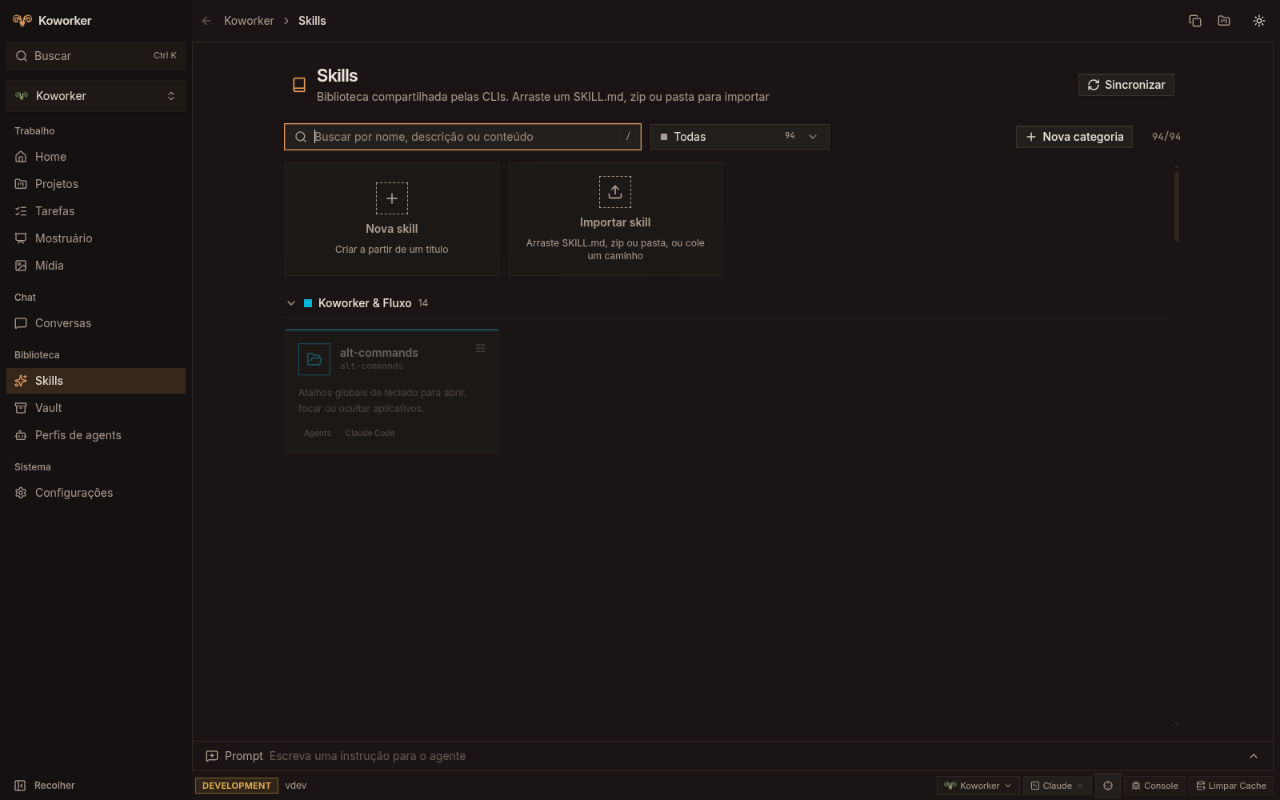
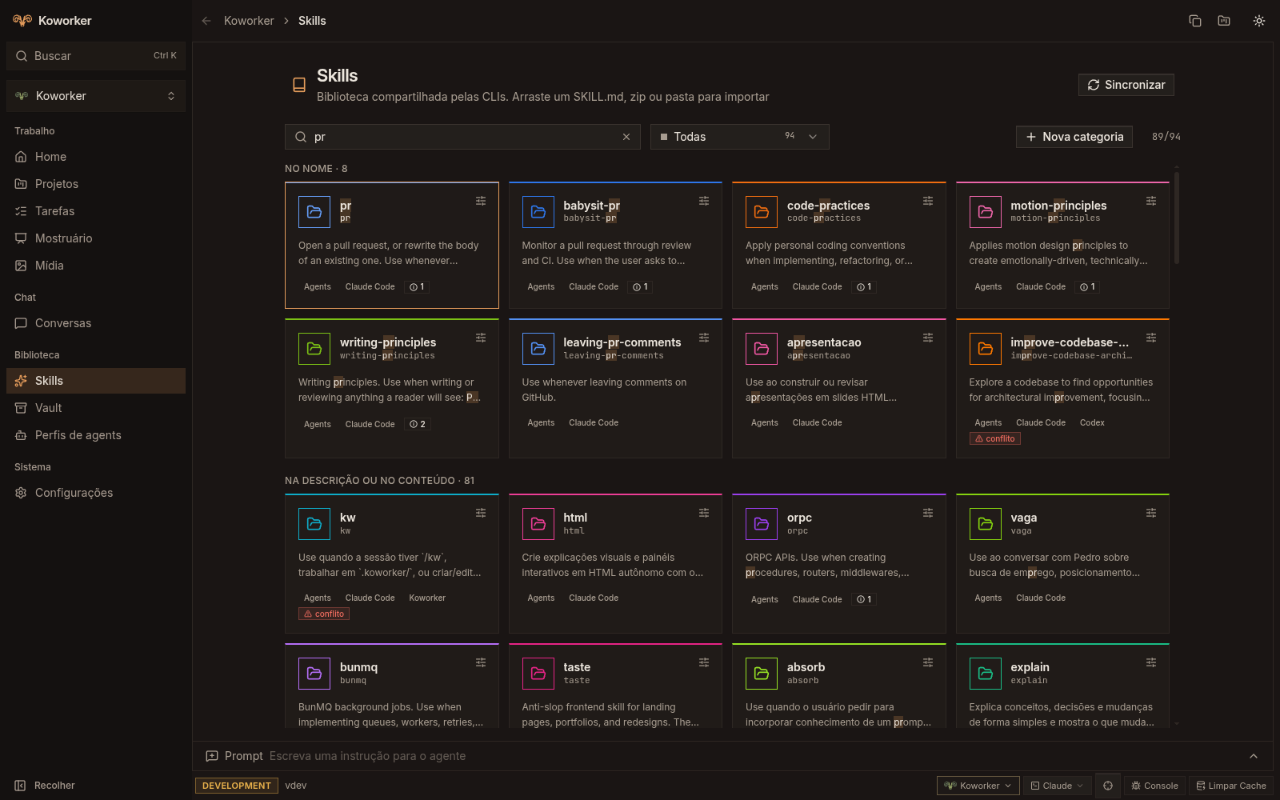
docs: renova capturas e destaca a busca de skills

diff --git a/README.md b/README.md
@@ -46,7 +46,7 @@ Read agent output as a conversation. Inspect tool activity, choose a model and r
 Skills turn your workflow into reusable instructions. Search names before descriptions and content, organize by category, and drop a skill into the library to import it.
 
 <p align="center">
-  <img src="docs/screenshots/skills.png" alt="Koworker skill library with search, categories, and cards for reusable agent instructions">
+  <img src="docs/screenshots/skills.png" alt="Koworker skill search with an exact name match first and description or content matches grouped below">
 </p>
 
 Open a skill to edit its instructions and supporting files. The compact toolbar leaves room for reading, shows where the skill is installed, and offers sharing options.
